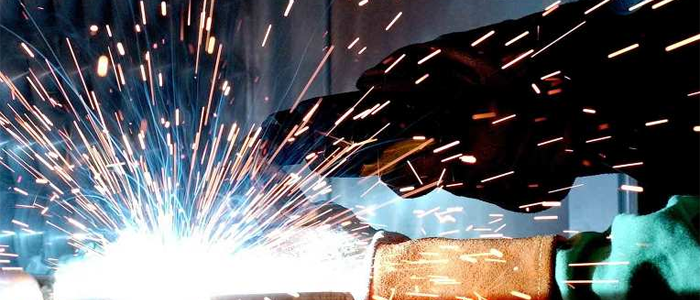
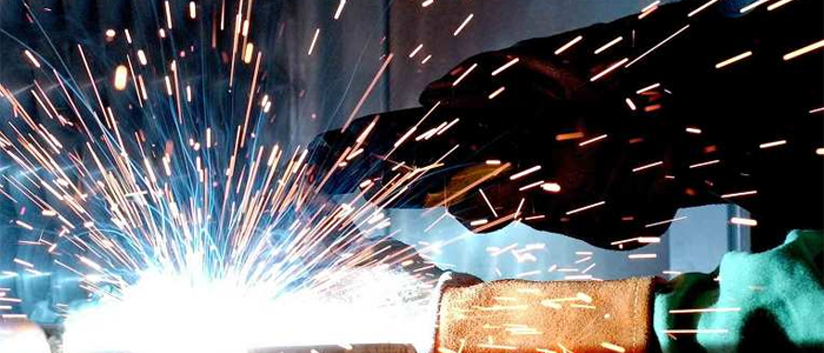
핵교 <20151207 12:02>

diff --git a/index.php b/index.php
@@ -86,8 +86,8 @@
 			</div>
 			</div>
 			<div class="main_content">
-				<div class="main_co1">
-					<img src="./img/centerimg1.png" width="700" height="300" alt="용접중">
+				<div class="main_co1" style="padding:0px 0px 20px 0px">
+					<img src="./img/centerimg1.png" alt="용접중">
 				</div>
 				<div class="main_co2">
 					<pre>
@@ -106,6 +106,8 @@
 현장 실무와 경험을 통한 용접과 배관 기능에 대한 모든 것을 전수할 수 있도록 최선을 다하겠습니다.
 					
 감사합니다.
+					
+							아산 용접배관학원 임직원 일동 올림.
 					</pre>
 				</div>
 			</div>

diff --git a/introduce/introduce.php b/introduce/introduce.php
@@ -22,8 +22,8 @@
 			</div>
 			</div>
 			<div class="main_content">
-				<div class="main_co1">
-					<img src="../img/centerimg1.png" width="700" height="300" alt="용접즁">
+				<div class="main_co1" style="padding: 0px 0px 20px 0px">
+					<img src="../img/centerimg1.png" alt="용접즁">
 				</div>
 				<div class="main_co2">
 					<pre>
